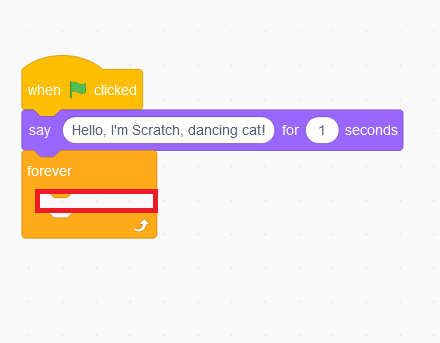
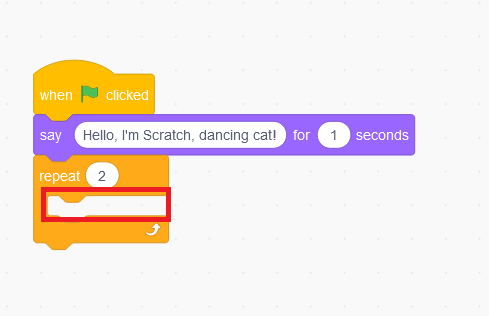
improve scratch 1

Changed region(s): [[0.0295, 0.1424, 0.9159, 0.7975]]

diff --git a/bakrang/programming/scratch/scratch1/index.html b/bakrang/programming/scratch/scratch1/index.html
@@ -77,6 +77,19 @@
 					1 ↘
 				</li>
 			</ul>
+			<h6>Loops</h6>
+			<div class="col-md-12">
+				While completing Minecraft Journey course we were using loops. 
+				In Scratch we also have them.
+			</div>
+			<div class="d-flex">
+				<div class="col-md-6">
+					<img src="./mcloop.png" >
+				</div>
+				<div class="col-md-6">
+					<img src="./scratch-loop.png" >
+				</div>
+			</div>
 			<h6>Task 2</h6>
 			<div class="d-flex">
 				<p class="col-md-6">
@@ -91,7 +104,7 @@
 				</div>
 			</div>
 
-			Result of out the second task should look like this - <a href="https://scratch.mit.edu/projects/editor/" target="_blank">DANCING CAT</a>
+			Result of out the second task should look like this - <a href="https://scratch.mit.edu/projects/953159665/" target="_blank">DANCING CAT</a>
 			<br/>
 		</div>
 	</main>
